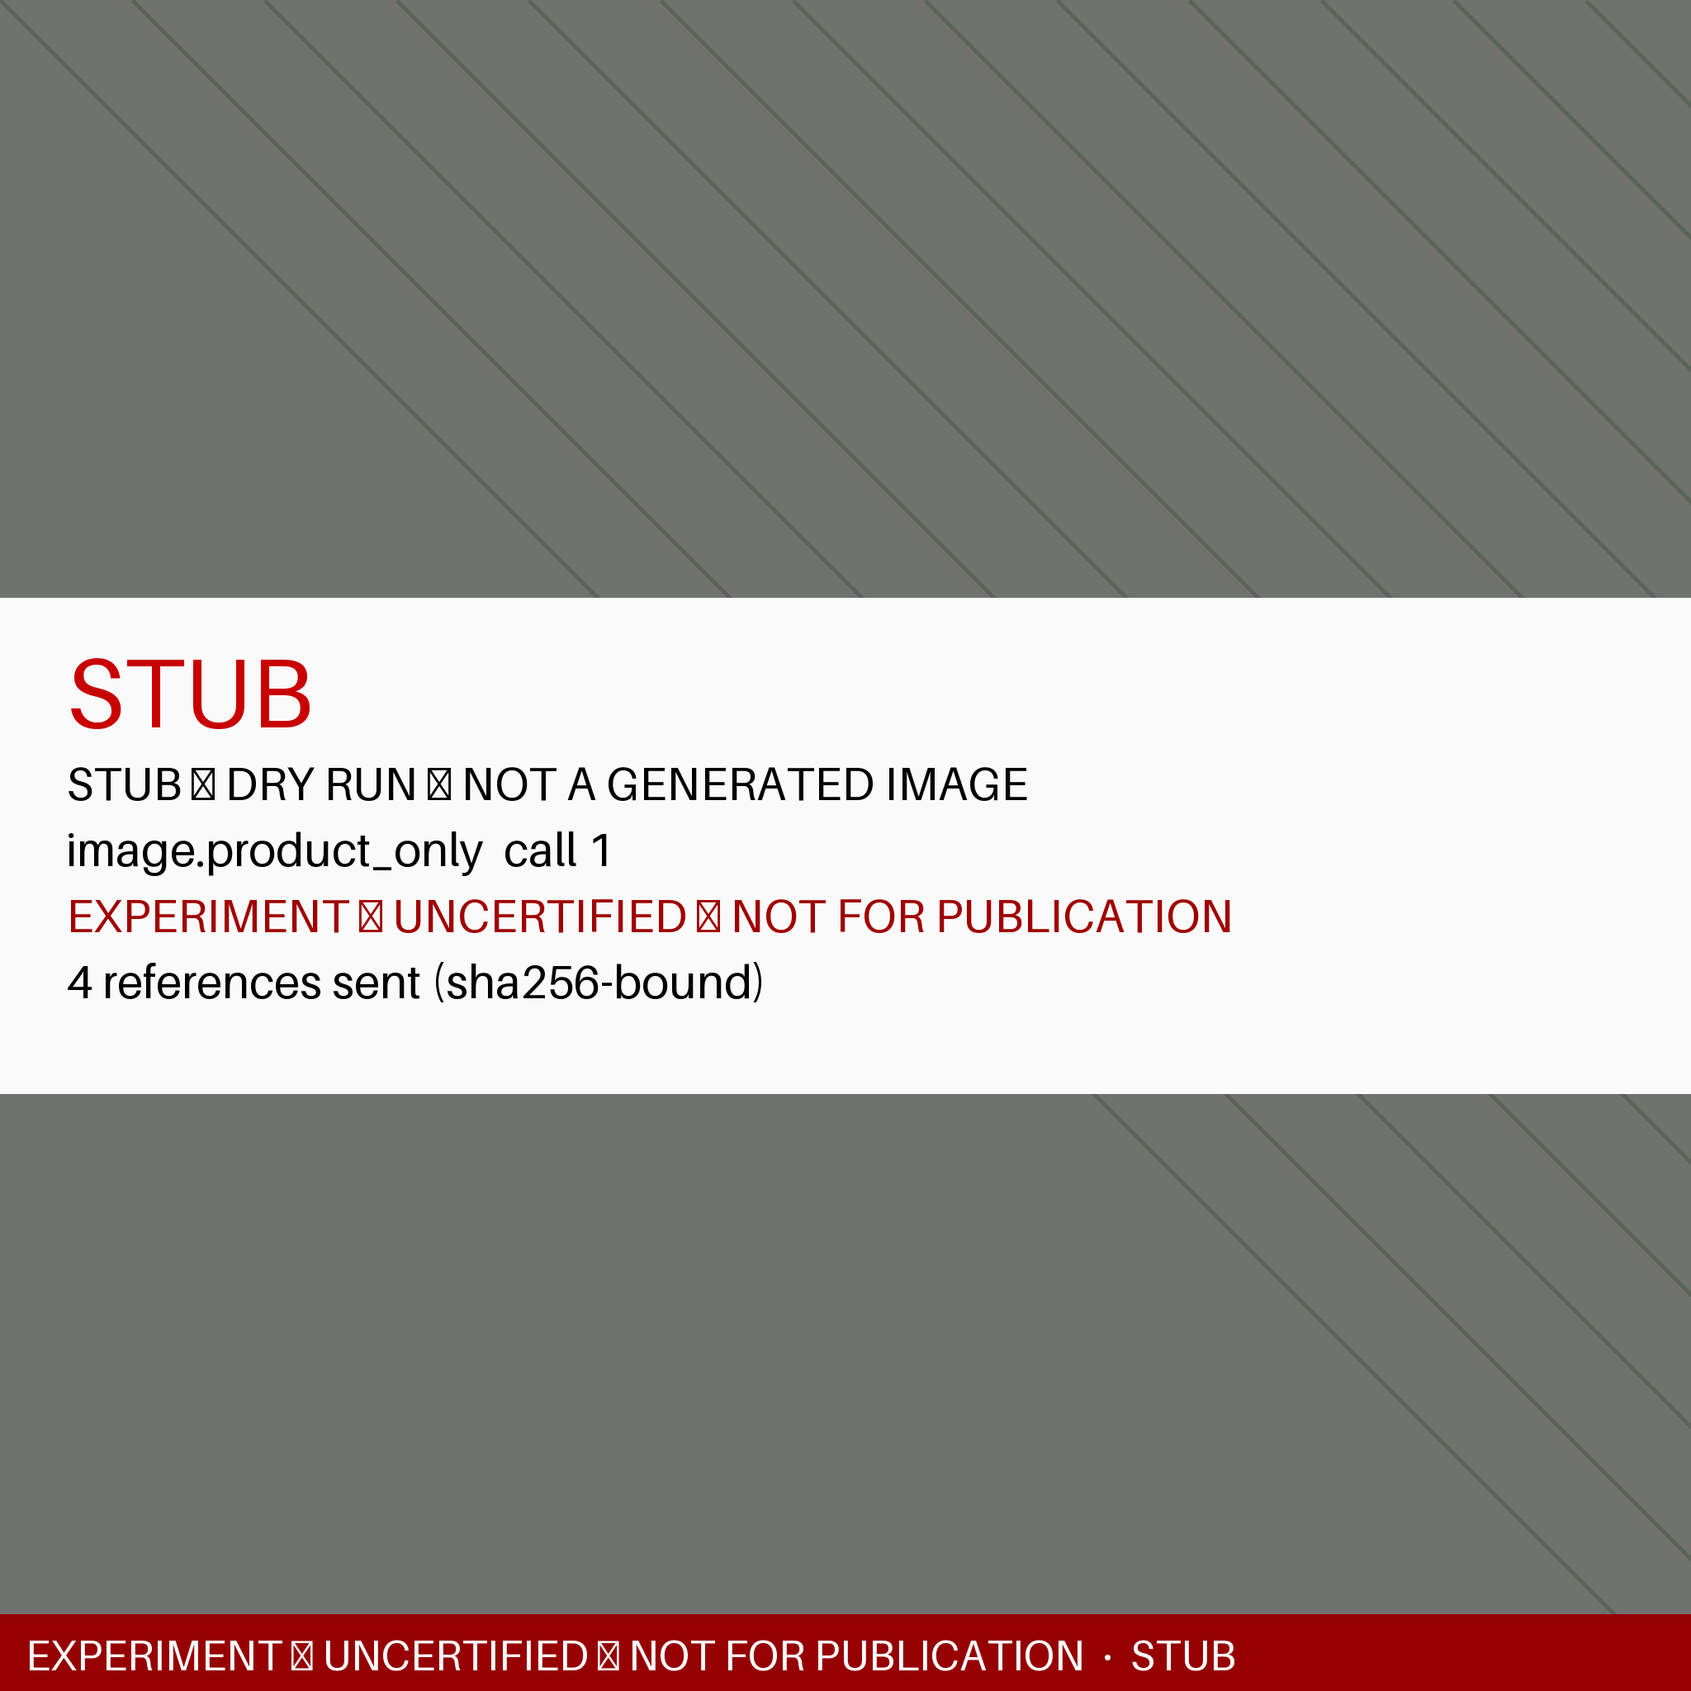
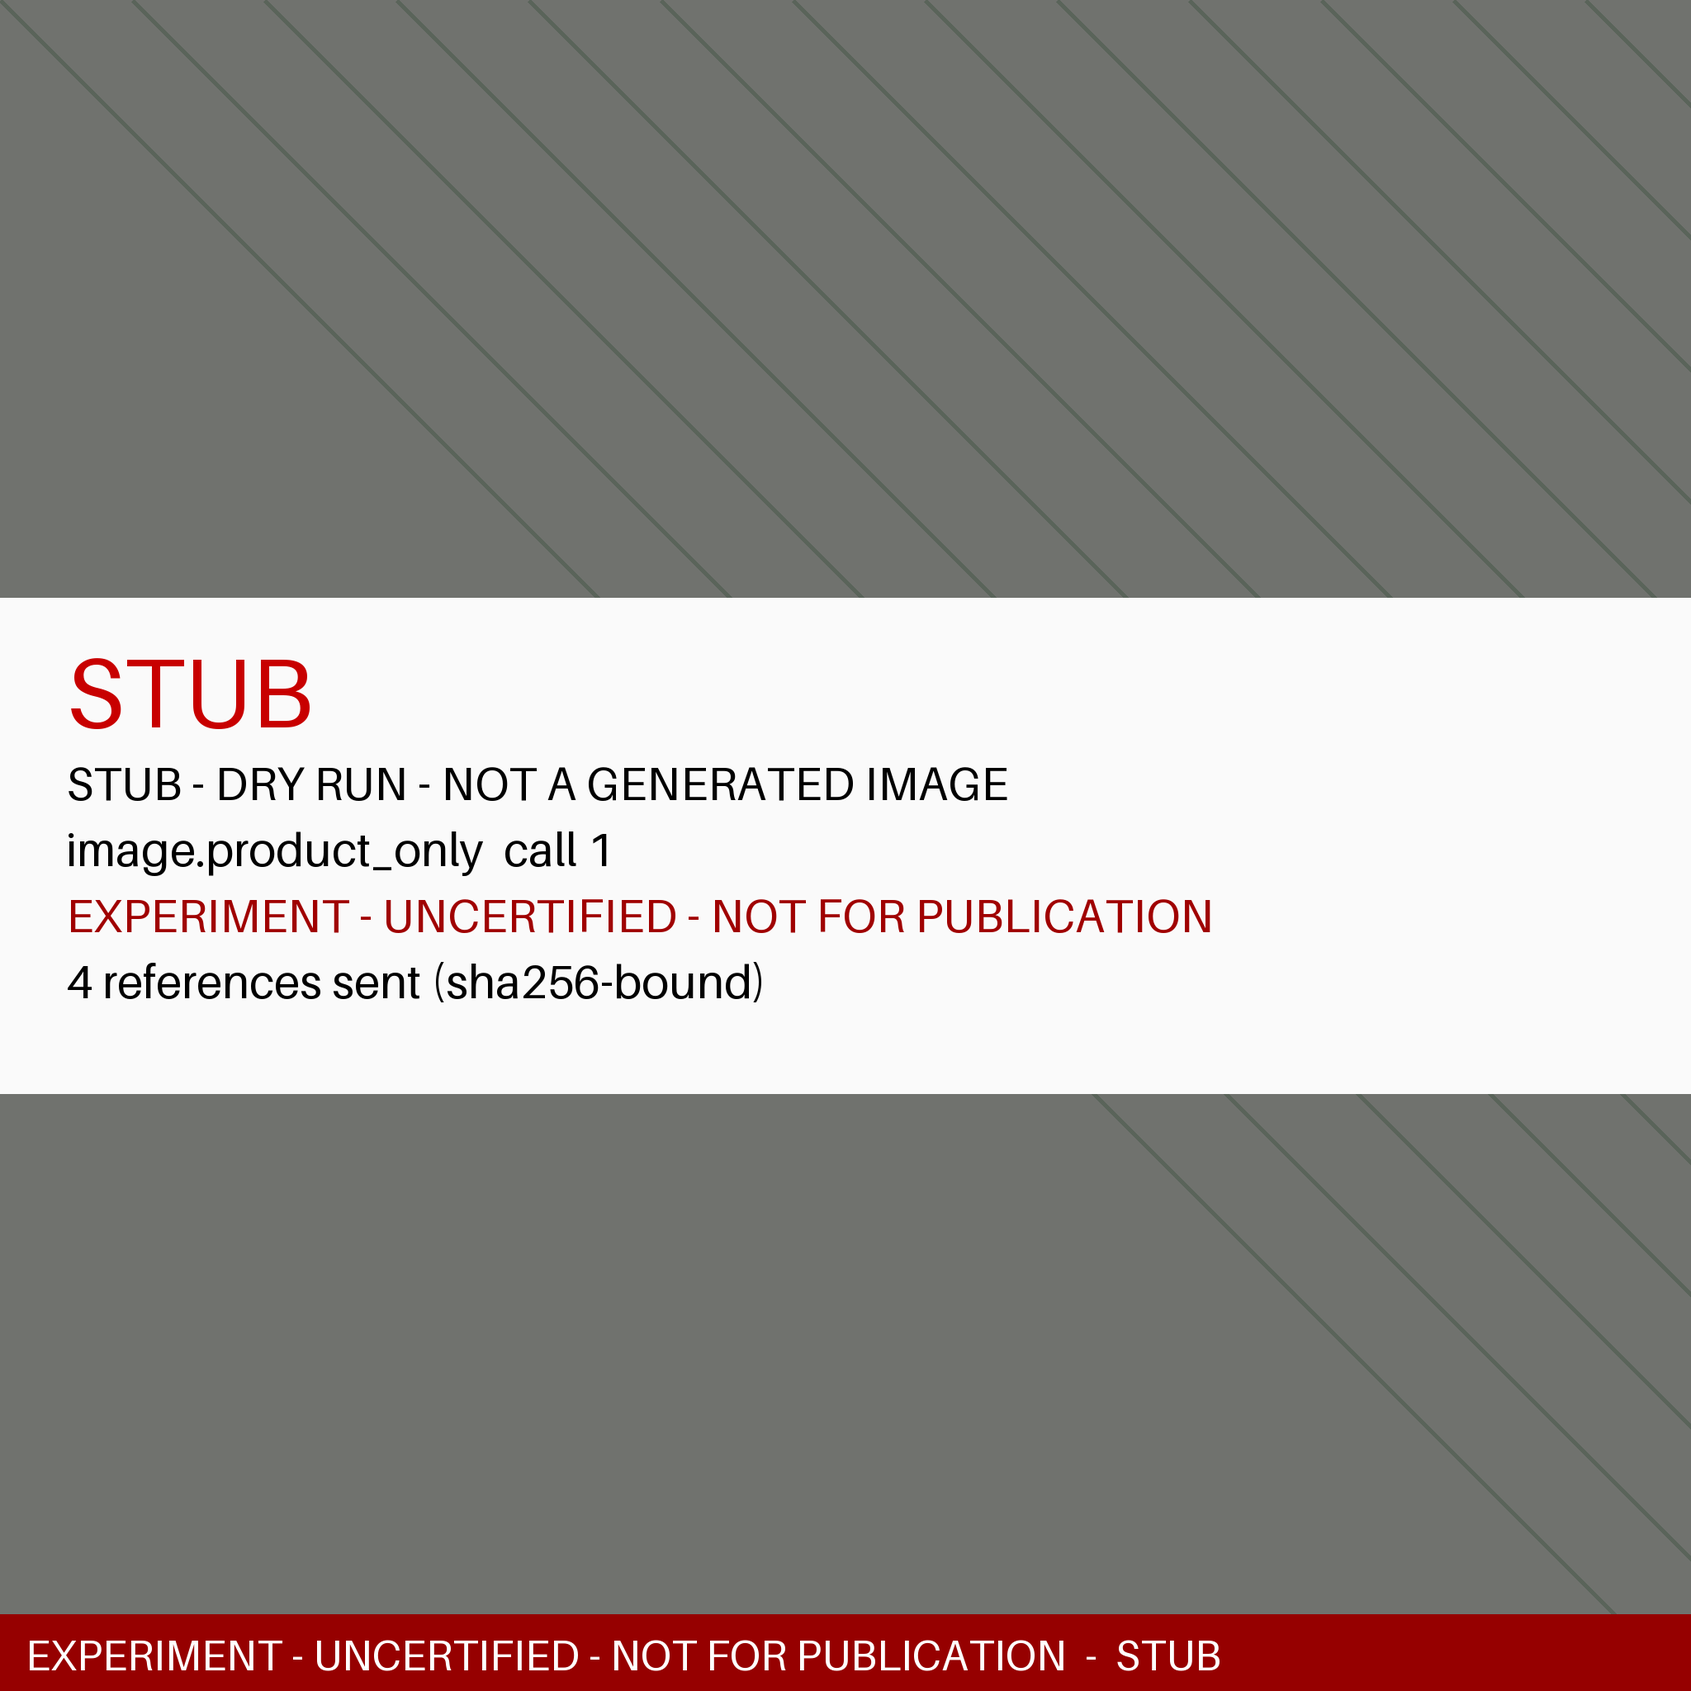
W4-WRAPTEST: regenerate dry-run approval package (ASCII burnt-in labels)
Claude-Session: https://claude.ai/code/session_01GpoRAgr4kBWxi1752HufQh

Changed region(s): [[0.1562, 0.9688, 0.75, 1.0], [0.2188, 0.5312, 0.7188, 0.5625], [0.125, 0.4375, 0.5938, 0.4688]]

diff --git a/brambleloop/research/final_build/w4/experiment_wrap/out/dry_run/approval_package/index.html b/brambleloop/research/final_build/w4/experiment_wrap/out/dry_run/approval_package/index.html
@@ -26,7 +26,7 @@ code { font-size:12px; }
 </style></head><body><main>
 <div class="banner">EXPERIMENT — UNCERTIFIED — NOT FOR PUBLICATION · DRY RUN · EVERY GENERATED IMAGE IS A STUB</div>
 <h1>Reading Nook Cable Wrap v0.1.0 — experiment approval package</h1>
-<p>Run state: <b>ready_for_owner_review</b> · run key <code>imgprod:reading-nook-cable-wrap@0.1.0@335c61ce56587a46cf60db33b3aeb6dbdab0d5404b4c4ab4e7a7453571753a24</code> · mode <b>dry-run</b> · generated 2026-10-19T22:29:00+00:00</p>
+<p>Run state: <b>ready_for_owner_review</b> · run key <code>imgprod:reading-nook-cable-wrap@0.1.0@335c61ce56587a46cf60db33b3aeb6dbdab0d5404b4c4ab4e7a7453571753a24</code> · mode <b>dry-run</b> · generated 2026-10-19T22:32:54+00:00</p>
 
 <h2>Three separate decisions</h2>
 <div class="three">
@@ -105,33 +105,33 @@ Traceback (most recent ca</li></ul>
 <h2>Costs and attempts</h2>
 <p>Hard cap CA$5.00 · spent CA$0.0000 · reserved now CA$0.0000</p>
 <div class="scroll"><table><tr><th>role</th><th>attempt</th><th>tier</th><th>output px</th><th>format</th><th>cost CA$</th><th>live price CA$</th><th>latency s</th><th>error</th></tr>
-<tr><td>product_anchor</td><td>1</td><td>2048x2048</td><td>[2048, 2048]</td><td>PNG</td><td>0.0</td><td>0.13986</td><td>0.13</td><td></td></tr>
-<tr><td>lifestyle</td><td>1</td><td>2048x2048</td><td>[2048, 2048]</td><td>PNG</td><td>0.0</td><td>0.13986</td><td>0.15</td><td></td></tr>
-<tr><td>angle</td><td>1</td><td>2048x2048</td><td>[2048, 2048]</td><td>PNG</td><td>0.0</td><td>0.13986</td><td>0.14</td><td></td></tr></table></div>
+<tr><td>product_anchor</td><td>1</td><td>2048x2048</td><td>[2048, 2048]</td><td>PNG</td><td>0.0</td><td>0.13986</td><td>0.16</td><td></td></tr>
+<tr><td>lifestyle</td><td>1</td><td>2048x2048</td><td>[2048, 2048]</td><td>PNG</td><td>0.0</td><td>0.13986</td><td>0.17</td><td></td></tr>
+<tr><td>angle</td><td>1</td><td>2048x2048</td><td>[2048, 2048]</td><td>PNG</td><td>0.0</td><td>0.13986</td><td>0.15</td><td></td></tr></table></div>
 <p>Vision calls: 0 · Command Center card: <b>EXPERIMENT — UNCERTIFIED — NOT FOR PUBLICATION: gallery ready for your look: reading-nook-cable-wrap</b></p>
 
 <h2>Execution timeline (owner actions between start and card: none)</h2>
 <div class="scroll"><table><tr><th>at (UTC)</th><th>stage</th><th>actor</th><th>job</th><th>idempotency key</th><th>in</th><th>out</th><th>CA$</th><th>note</th></tr>
-<tr><td>2026-10-19T22:28:35.508+00:00</td><td>scratch SHADOW database created</td><td>harness</td><td></td><td><code></code></td><td><code></code></td><td><code>891bc5f8ded0</code></td><td>0.0</td><td></td></tr>
-<tr><td>2026-10-19T22:28:36.725+00:00</td><td>certification: gate.certify (real handler, scratch SHADOW DB)</td><td>quality_director</td><td>1</td><td><code>experiment:certify:reading-nook-cable-wrap:0.1.0:23420beed766</code></td><td><code>aaaab1c0327a</code></td><td><code>061d4ec4f6b7</code></td><td>0.0</td><td>REFUSED: ERROR UNCALIBRATED_PRIMITIVE: [&#x27;cable2x2&#x27;] are new primitives no sample has calibrated: their height and yarn behaviour decide this pattern&#x27;s size and yardage claims, so it is not released for unrestricted use until a physical test of it passes</td></tr>
-<tr><td>2026-10-19T22:28:48.957+00:00</td><td>uncertified PDFs rendered twice each, fixed released_on</td><td>harness</td><td></td><td><code></code></td><td><code>01b9715fd97d</code></td><td><code>e0c449b5d9d9</code></td><td>0.0</td><td></td></tr>
-<tr><td>2026-10-19T22:28:48.989+00:00</td><td>experiment opened (bound to content hash + uncertified PDF hashes)</td><td>harness</td><td></td><td><code></code></td><td><code>857bd7c7ac91</code></td><td><code>379f850ea292</code></td><td>0.0</td><td></td></tr>
-<tr><td>2026-10-19T22:28:50.181+00:00</td><td>orchestrator triggered (experiment)</td><td>harness</td><td></td><td><code>imgprod:reading-nook-cable-wrap@0.1.0@335c61ce56587a46cf60db33b3aeb6dbdab0d5404b4c4ab4e7a7453571753a24:retrieve_release</code></td><td><code></code></td><td><code>8cebd8a2e459</code></td><td>0.0</td><td></td></tr>
-<tr><td>2026-10-19T22:28:50.478+00:00</td><td>image_production.retrieve_release</td><td>publishing</td><td>2</td><td><code>imgprod:reading-nook-cable-wrap@0.1.0@335c61ce56587a46cf60db33b3aeb6dbdab0d5404b4c4ab4e7a7453571753a24:retrieve_release</code></td><td><code>2472a4d41009</code></td><td><code>6e8fe61cf75d</code></td><td>0.0</td><td>JobStatus.DONE</td></tr>
-<tr><td>2026-10-19T22:28:51.481+00:00</td><td>image_production.prepare_references</td><td>publishing</td><td>3</td><td><code>imgprod:reading-nook-cable-wrap@0.1.0@335c61ce56587a46cf60db33b3aeb6dbdab0d5404b4c4ab4e7a7453571753a24:prepare_references</code></td><td><code>e73d97e18296</code></td><td><code>1c4cc953ec1c</code></td><td>0.0</td><td>JobStatus.DONE</td></tr>
-<tr><td>2026-10-19T22:28:52.788+00:00</td><td>image_production.product_generation</td><td>publishing</td><td>4</td><td><code>imgprod:reading-nook-cable-wrap@0.1.0@335c61ce56587a46cf60db33b3aeb6dbdab0d5404b4c4ab4e7a7453571753a24:product_generation</code></td><td><code>d4e4e276b511</code></td><td><code>db71848b6936</code></td><td>0.0</td><td>JobStatus.DONE</td></tr>
-<tr><td>2026-10-19T22:28:52.809+00:00</td><td>image_production.fidelity_gate</td><td>publishing</td><td>5</td><td><code>imgprod:reading-nook-cable-wrap@0.1.0@335c61ce56587a46cf60db33b3aeb6dbdab0d5404b4c4ab4e7a7453571753a24:fidelity_gate</code></td><td><code>98fd7ea7310e</code></td><td><code>7c68de0339c2</code></td><td>0.0</td><td>JobStatus.DONE</td></tr>
-<tr><td>2026-10-19T22:28:52.938+00:00</td><td>image_production.load_laura_references</td><td>publishing</td><td>6</td><td><code>imgprod:reading-nook-cable-wrap@0.1.0@335c61ce56587a46cf60db33b3aeb6dbdab0d5404b4c4ab4e7a7453571753a24:load_laura_references</code></td><td><code>5f5b690e88b2</code></td><td><code>dcda791d482a</code></td><td>0.0</td><td>JobStatus.DONE</td></tr>
-<tr><td>2026-10-19T22:28:53.004+00:00</td><td>image_production.reserve_outfit</td><td>publishing</td><td>7</td><td><code>imgprod:reading-nook-cable-wrap@0.1.0@335c61ce56587a46cf60db33b3aeb6dbdab0d5404b4c4ab4e7a7453571753a24:reserve_outfit</code></td><td><code>103d889e9759</code></td><td><code>b7dbbbf51414</code></td><td>0.0</td><td>JobStatus.DONE</td></tr>
-<tr><td>2026-10-19T22:28:54.348+00:00</td><td>image_production.lifestyle_generation</td><td>publishing</td><td>8</td><td><code>imgprod:reading-nook-cable-wrap@0.1.0@335c61ce56587a46cf60db33b3aeb6dbdab0d5404b4c4ab4e7a7453571753a24:lifestyle_generation</code></td><td><code>71d4ca79c977</code></td><td><code>56368116cf7a</code></td><td>0.0</td><td>JobStatus.DONE</td></tr>
-<tr><td>2026-10-19T22:28:55.950+00:00</td><td>image_production.remaining_roles</td><td>publishing</td><td>9</td><td><code>imgprod:reading-nook-cable-wrap@0.1.0@335c61ce56587a46cf60db33b3aeb6dbdab0d5404b4c4ab4e7a7453571753a24:remaining_roles</code></td><td><code>db2cb677c36a</code></td><td><code>454d21af605e</code></td><td>0.0</td><td>JobStatus.DONE</td></tr>
-<tr><td>2026-10-19T22:28:55.970+00:00</td><td>image_production.verification</td><td>publishing</td><td>10</td><td><code>imgprod:reading-nook-cable-wrap@0.1.0@335c61ce56587a46cf60db33b3aeb6dbdab0d5404b4c4ab4e7a7453571753a24:verification</code></td><td><code>6f16b6d3027f</code></td><td><code>2febef086b67</code></td><td>0.0</td><td>JobStatus.DONE</td></tr>
-<tr><td>2026-10-19T22:28:59.150+00:00</td><td>gallery assembly: deterministic frames rendered and stored</td><td>publishing</td><td></td><td><code></code></td><td><code></code></td><td><code>31b2f00bc803</code></td><td>0.0</td><td></td></tr>
-<tr><td>2026-10-19T22:28:59.167+00:00</td><td>image_production.gallery_assembly</td><td>publishing</td><td>11</td><td><code>imgprod:reading-nook-cable-wrap@0.1.0@335c61ce56587a46cf60db33b3aeb6dbdab0d5404b4c4ab4e7a7453571753a24:gallery_assembly</code></td><td><code>3701f516a68e</code></td><td><code>0bdb9b9f6748</code></td><td>0.0</td><td>JobStatus.DONE</td></tr>
-<tr><td>2026-10-19T22:28:59.201+00:00</td><td>image_production.owner_card</td><td>publishing</td><td>12</td><td><code>imgprod:reading-nook-cable-wrap@0.1.0@335c61ce56587a46cf60db33b3aeb6dbdab0d5404b4c4ab4e7a7453571753a24:owner_card</code></td><td><code>f104e5fe0ea4</code></td><td><code>cb52e434b2dd</code></td><td>0.0</td><td>JobStatus.DONE</td></tr>
-<tr><td>2026-10-19T22:28:59.226+00:00</td><td>orchestrator idle after 11 stage jobs</td><td>harness</td><td></td><td><code></code></td><td><code></code></td><td><code>c1c7abf97c3f</code></td><td>0.0</td><td></td></tr>
-<tr><td>2026-10-19T22:28:59.374+00:00</td><td>listing draft (seo/search/pricing/category reused)</td><td>seo</td><td></td><td><code></code></td><td><code></code></td><td><code>bab7d0ee1bbe</code></td><td>0.0</td><td></td></tr>
-<tr><td>2026-10-19T22:28:59.552+00:00</td><td>approval card created (Command Center notifications.refresh)</td><td>command_center</td><td></td><td><code></code></td><td><code></code></td><td><code>66a6406584e1</code></td><td>0.0</td><td>EXPERIMENT — UNCERTIFIED — NOT FOR PUBLICATION: gallery ready for your look: reading-nook-cable-wrap</td></tr>
-<tr><td>2026-10-19T22:28:59.616+00:00</td><td>publication paths refused (store.publish, export, listing approval)</td><td>harness</td><td></td><td><code></code></td><td><code></code></td><td><code>e7b7555d2d83</code></td><td>0.0</td><td></td></tr></table></div>
+<tr><td>2026-10-19T22:32:28.158+00:00</td><td>scratch SHADOW database created</td><td>harness</td><td></td><td><code></code></td><td><code></code></td><td><code>891bc5f8ded0</code></td><td>0.0</td><td></td></tr>
+<tr><td>2026-10-19T22:32:29.596+00:00</td><td>certification: gate.certify (real handler, scratch SHADOW DB)</td><td>quality_director</td><td>1</td><td><code>experiment:certify:reading-nook-cable-wrap:0.1.0:23420beed766</code></td><td><code>aaaab1c0327a</code></td><td><code>061d4ec4f6b7</code></td><td>0.0</td><td>REFUSED: ERROR UNCALIBRATED_PRIMITIVE: [&#x27;cable2x2&#x27;] are new primitives no sample has calibrated: their height and yarn behaviour decide this pattern&#x27;s size and yardage claims, so it is not released for unrestricted use until a physical test of it passes</td></tr>
+<tr><td>2026-10-19T22:32:41.672+00:00</td><td>uncertified PDFs rendered twice each, fixed released_on</td><td>harness</td><td></td><td><code></code></td><td><code>01b9715fd97d</code></td><td><code>e0c449b5d9d9</code></td><td>0.0</td><td></td></tr>
+<tr><td>2026-10-19T22:32:41.704+00:00</td><td>experiment opened (bound to content hash + uncertified PDF hashes)</td><td>harness</td><td></td><td><code></code></td><td><code>857bd7c7ac91</code></td><td><code>3ba694eb90cc</code></td><td>0.0</td><td></td></tr>
+<tr><td>2026-10-19T22:32:42.693+00:00</td><td>orchestrator triggered (experiment)</td><td>harness</td><td></td><td><code>imgprod:reading-nook-cable-wrap@0.1.0@335c61ce56587a46cf60db33b3aeb6dbdab0d5404b4c4ab4e7a7453571753a24:retrieve_release</code></td><td><code></code></td><td><code>8cebd8a2e459</code></td><td>0.0</td><td></td></tr>
+<tr><td>2026-10-19T22:32:42.975+00:00</td><td>image_production.retrieve_release</td><td>publishing</td><td>2</td><td><code>imgprod:reading-nook-cable-wrap@0.1.0@335c61ce56587a46cf60db33b3aeb6dbdab0d5404b4c4ab4e7a7453571753a24:retrieve_release</code></td><td><code>2472a4d41009</code></td><td><code>6e8fe61cf75d</code></td><td>0.0</td><td>JobStatus.DONE</td></tr>
+<tr><td>2026-10-19T22:32:44.090+00:00</td><td>image_production.prepare_references</td><td>publishing</td><td>3</td><td><code>imgprod:reading-nook-cable-wrap@0.1.0@335c61ce56587a46cf60db33b3aeb6dbdab0d5404b4c4ab4e7a7453571753a24:prepare_references</code></td><td><code>e73d97e18296</code></td><td><code>1c4cc953ec1c</code></td><td>0.0</td><td>JobStatus.DONE</td></tr>
+<tr><td>2026-10-19T22:32:45.527+00:00</td><td>image_production.product_generation</td><td>publishing</td><td>4</td><td><code>imgprod:reading-nook-cable-wrap@0.1.0@335c61ce56587a46cf60db33b3aeb6dbdab0d5404b4c4ab4e7a7453571753a24:product_generation</code></td><td><code>d4e4e276b511</code></td><td><code>db71848b6936</code></td><td>0.0</td><td>JobStatus.DONE</td></tr>
+<tr><td>2026-10-19T22:32:45.571+00:00</td><td>image_production.fidelity_gate</td><td>publishing</td><td>5</td><td><code>imgprod:reading-nook-cable-wrap@0.1.0@335c61ce56587a46cf60db33b3aeb6dbdab0d5404b4c4ab4e7a7453571753a24:fidelity_gate</code></td><td><code>98fd7ea7310e</code></td><td><code>7c68de0339c2</code></td><td>0.0</td><td>JobStatus.DONE</td></tr>
+<tr><td>2026-10-19T22:32:45.690+00:00</td><td>image_production.load_laura_references</td><td>publishing</td><td>6</td><td><code>imgprod:reading-nook-cable-wrap@0.1.0@335c61ce56587a46cf60db33b3aeb6dbdab0d5404b4c4ab4e7a7453571753a24:load_laura_references</code></td><td><code>5f5b690e88b2</code></td><td><code>dcda791d482a</code></td><td>0.0</td><td>JobStatus.DONE</td></tr>
+<tr><td>2026-10-19T22:32:45.740+00:00</td><td>image_production.reserve_outfit</td><td>publishing</td><td>7</td><td><code>imgprod:reading-nook-cable-wrap@0.1.0@335c61ce56587a46cf60db33b3aeb6dbdab0d5404b4c4ab4e7a7453571753a24:reserve_outfit</code></td><td><code>103d889e9759</code></td><td><code>b7dbbbf51414</code></td><td>0.0</td><td>JobStatus.DONE</td></tr>
+<tr><td>2026-10-19T22:32:47.434+00:00</td><td>image_production.lifestyle_generation</td><td>publishing</td><td>8</td><td><code>imgprod:reading-nook-cable-wrap@0.1.0@335c61ce56587a46cf60db33b3aeb6dbdab0d5404b4c4ab4e7a7453571753a24:lifestyle_generation</code></td><td><code>71d4ca79c977</code></td><td><code>56368116cf7a</code></td><td>0.0</td><td>JobStatus.DONE</td></tr>
+<tr><td>2026-10-19T22:32:49.127+00:00</td><td>image_production.remaining_roles</td><td>publishing</td><td>9</td><td><code>imgprod:reading-nook-cable-wrap@0.1.0@335c61ce56587a46cf60db33b3aeb6dbdab0d5404b4c4ab4e7a7453571753a24:remaining_roles</code></td><td><code>db2cb677c36a</code></td><td><code>454d21af605e</code></td><td>0.0</td><td>JobStatus.DONE</td></tr>
+<tr><td>2026-10-19T22:32:49.151+00:00</td><td>image_production.verification</td><td>publishing</td><td>10</td><td><code>imgprod:reading-nook-cable-wrap@0.1.0@335c61ce56587a46cf60db33b3aeb6dbdab0d5404b4c4ab4e7a7453571753a24:verification</code></td><td><code>6f16b6d3027f</code></td><td><code>2febef086b67</code></td><td>0.0</td><td>JobStatus.DONE</td></tr>
+<tr><td>2026-10-19T22:32:52.936+00:00</td><td>gallery assembly: deterministic frames rendered and stored</td><td>publishing</td><td></td><td><code></code></td><td><code></code></td><td><code>6d2a0f18d001</code></td><td>0.0</td><td></td></tr>
+<tr><td>2026-10-19T22:32:52.958+00:00</td><td>image_production.gallery_assembly</td><td>publishing</td><td>11</td><td><code>imgprod:reading-nook-cable-wrap@0.1.0@335c61ce56587a46cf60db33b3aeb6dbdab0d5404b4c4ab4e7a7453571753a24:gallery_assembly</code></td><td><code>3701f516a68e</code></td><td><code>0bdb9b9f6748</code></td><td>0.0</td><td>JobStatus.DONE</td></tr>
+<tr><td>2026-10-19T22:32:52.999+00:00</td><td>image_production.owner_card</td><td>publishing</td><td>12</td><td><code>imgprod:reading-nook-cable-wrap@0.1.0@335c61ce56587a46cf60db33b3aeb6dbdab0d5404b4c4ab4e7a7453571753a24:owner_card</code></td><td><code>f104e5fe0ea4</code></td><td><code>4a70ff7a938e</code></td><td>0.0</td><td>JobStatus.DONE</td></tr>
+<tr><td>2026-10-19T22:32:53.019+00:00</td><td>orchestrator idle after 11 stage jobs</td><td>harness</td><td></td><td><code></code></td><td><code></code></td><td><code>e8fb5427a1e1</code></td><td>0.0</td><td></td></tr>
+<tr><td>2026-10-19T22:32:53.171+00:00</td><td>listing draft (seo/search/pricing/category reused)</td><td>seo</td><td></td><td><code></code></td><td><code></code></td><td><code>bab7d0ee1bbe</code></td><td>0.0</td><td></td></tr>
+<tr><td>2026-10-19T22:32:53.340+00:00</td><td>approval card created (Command Center notifications.refresh)</td><td>command_center</td><td></td><td><code></code></td><td><code></code></td><td><code>6802ae083417</code></td><td>0.0</td><td>EXPERIMENT — UNCERTIFIED — NOT FOR PUBLICATION: gallery ready for your look: reading-nook-cable-wrap</td></tr>
+<tr><td>2026-10-19T22:32:53.411+00:00</td><td>publication paths refused (store.publish, export, listing approval)</td><td>harness</td><td></td><td><code></code></td><td><code></code></td><td><code>e7b7555d2d83</code></td><td>0.0</td><td></td></tr></table></div>
 <p><a href="evidence.json">evidence.json</a> · <a href="timeline.json">timeline.json</a></p>
 </main></body></html>
